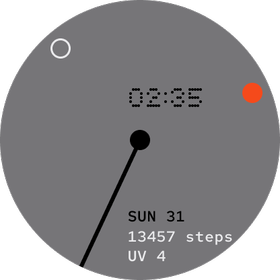
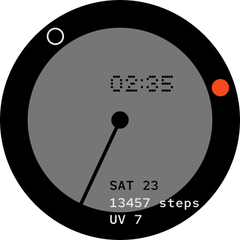
add small version

diff --git a/nothing-dial/watchface/index.js b/nothing-dial/watchface/index.js
@@ -2,13 +2,28 @@ const { width, height } = hmSetting.getDeviceInfo();
 const centerX = width / 2;
 const centerY = height / 2;
 
-const GENERAL_CONFIG = {
-  min: 'min1.png',
-  hour: 'hour1.png',
-  'min-pointer': 'min-pointer1.png',
+const ICONS_GENERAL = {
+  background: 'background.png',
+  minute: 'minute.png',
+  center: 'center.png',
+  hour: 'hour.png',
+  second: 'second-dot.png',
+  timeDigits: new Array(10).fill(null).map((_, i) => `time/${i}.png`),
+  timeColon: 'time/colon.png',
+  date: new Array(7).fill(null).map((_, i) => `date-days/${i}.png`),
+  dateDigits: new Array(10).fill(null).map((_, i) => `date-digits/${i}.png`),
+  otherDigits: new Array(10).fill(null).map((_, i) => `other/${i}.png`),
+  steps: 'other/steps.png',
+  uv: 'other/uv.png',
+  disconnected: 'disconnected.png',
 };
 
-const config = GENERAL_CONFIG;
+const ICONS_SMALL = {
+  ...ICONS_GENERAL,
+  background: 'background-small.png',
+};
+
+const icons = ICONS_SMALL;
 
 function secondsToAngle(seconds) {
   return seconds * 6;
@@ -33,7 +48,7 @@ WatchFace({
       y: 0,
       w: width,
       h: height,
-      src: 'background.png',
+      src: icons.background,
       show_level: hmUI.show_level.ONLY_NORMAL,
     });
   },
@@ -44,7 +59,7 @@ WatchFace({
       minute_centerY: centerY,
       minute_posX: centerX,
       minute_posY: centerY,
-      minute_path: 'minute.png',
+      minute_path: icons.minute,
       show_level: hmUI.show_level.ONLY_NORMAL,
     });
 
@@ -53,7 +68,7 @@ WatchFace({
       y: 0,
       w: width,
       h: height,
-      src: 'center.png',
+      src: icons.center,
       show_level: hmUI.show_level.ONLY_NORMAL,
     });
 
@@ -65,7 +80,7 @@ WatchFace({
       hour_centerY: centerY,
       hour_posX: centerX,
       hour_posY: centerY,
-      hour_path: 'hour.png',
+      hour_path: icons.hour,
       show_level: hmUI.show_level.ONLY_NORMAL,
     });
   },
@@ -90,7 +105,7 @@ WatchFace({
       pos_y: 9,
       w: width,
       h: height,
-      src: 'second-dot.png',
+      src: icons.second,
       center_x: centerX,
       center_y: centerY,
       angle: 0,
@@ -165,7 +180,7 @@ WatchFace({
   },
 
   buildTime() {
-    const digits = new Array(10).fill(null).map((_, i) => `time/${i}.png`);
+    const digits = icons.timeDigits;
     const DIGIT_WIDTH = 26;
     const DIGIT_HEIGHT = 30;
     const X = 190;
@@ -183,7 +198,7 @@ WatchFace({
       y: Y,
       w: DIGIT_WIDTH,
       h: DIGIT_HEIGHT,
-      src: 'time/colon.png',
+      src: icons.timeColon,
       show_level: hmUI.show_level.ONLY_NORMAL,
     });
 
@@ -196,10 +211,8 @@ WatchFace({
   },
 
   buildDate() {
-    const days = new Array(7).fill(null).map((_, i) => `date-days/${i}.png`);
-    const digits = new Array(10)
-      .fill(null)
-      .map((_, i) => `date-digits/${i}.png`);
+    const days = icons.date;
+    const digits = icons.dateDigits;
     const DIGIT_WIDTH = 14;
     const DIGIT_HEIGHT = 18;
     const DAY_WIDTH = 3 * DIGIT_WIDTH;
@@ -224,7 +237,7 @@ WatchFace({
   },
 
   buildSteps() {
-    const digits = new Array(10).fill(null).map((_, i) => `other/${i}.png`);
+    const digits = icons.otherDigits;
     const DIGIT_WIDTH = 14;
     const DIGIT_HEIGHT = 18;
     const X = 190;
@@ -235,13 +248,13 @@ WatchFace({
       y: Y,
       type: hmUI.data_type.STEP,
       font_array: digits,
-      unit_en: 'other/steps.png',
+      unit_en: icons.steps,
       show_level: hmUI.show_level.ONLY_NORMAL,
     });
   },
 
   buildUvIndex() {
-    const digits = new Array(10).fill(null).map((_, i) => `other/${i}.png`);
+    const digits = icons.otherDigits;
     const DIGIT_WIDTH = 14;
     const DIGIT_HEIGHT = 18;
     const X = 190;
@@ -252,7 +265,7 @@ WatchFace({
       y: Y,
       w: 2 * DIGIT_WIDTH,
       h: DIGIT_HEIGHT,
-      src: 'other/uv.png',
+      src: icons.uv,
       show_level: hmUI.show_level.ONLY_NORMAL,
     });
 
@@ -267,10 +280,10 @@ WatchFace({
 
   buildDisconnectedIcon() {
     hmUI.createWidget(hmUI.widget.IMG_STATUS, {
-      x: 68,
-      y: 185,
+      x: 92,
+      y: 190,
       type: hmUI.system_status.DISCONNECT,
-      src: 'disconnected.png'
+      src: icons.disconnected,
     });
   },
 
